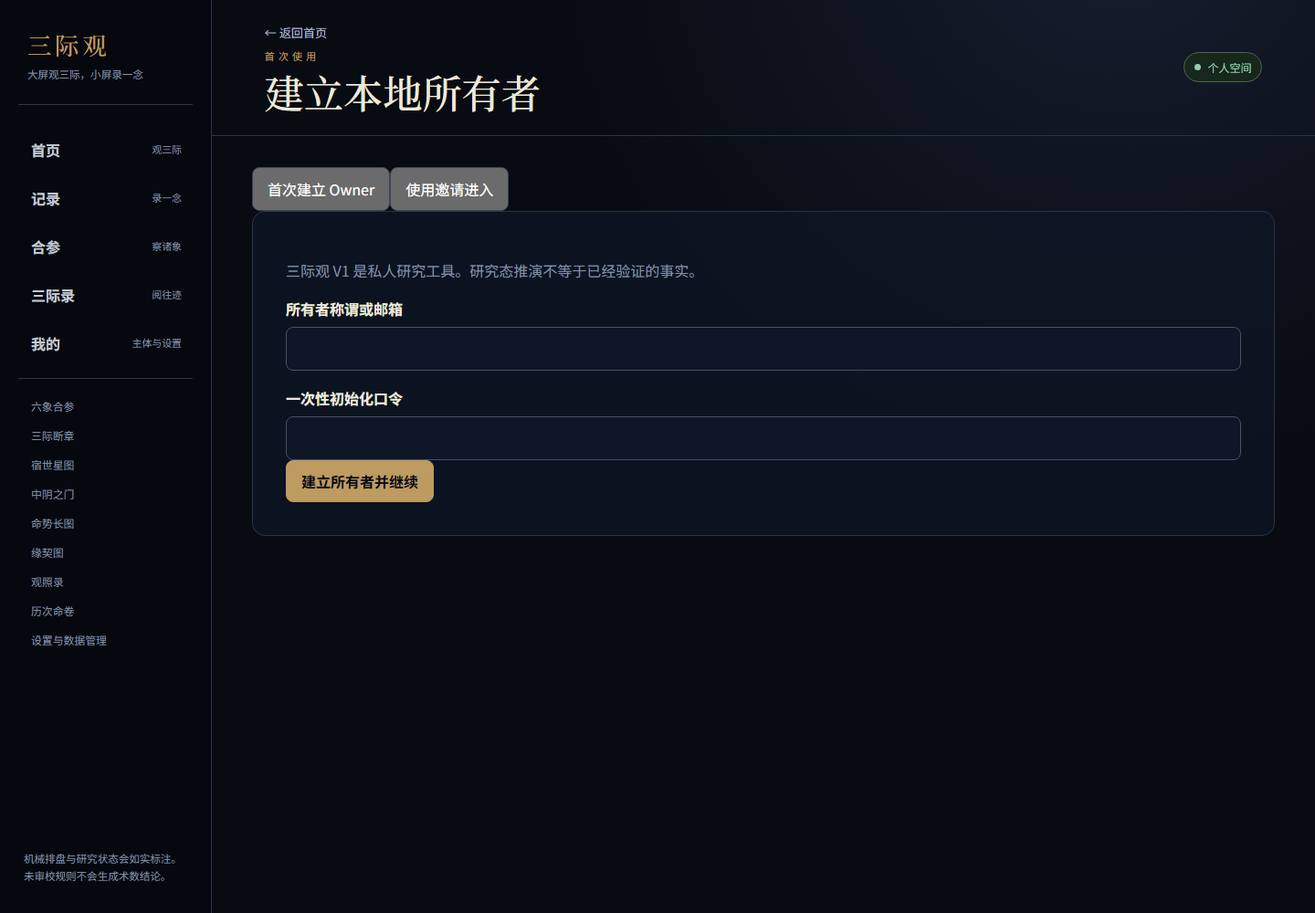
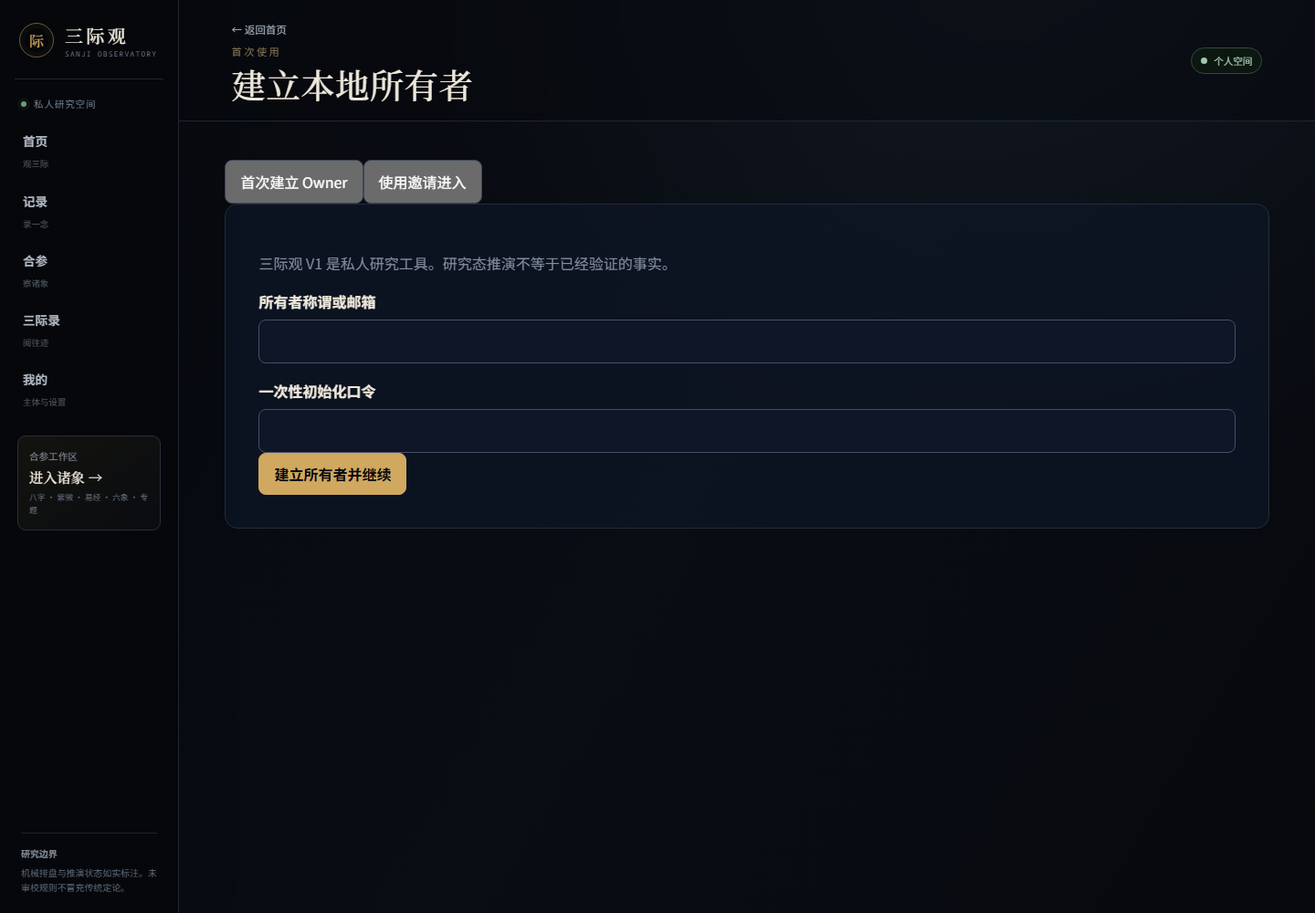
feat(web): establish editorial observatory experience

diff --git a/apps/web/app/styles.css b/apps/web/app/styles.css
@@ -156,3 +156,54 @@ table { width: 100%; border-collapse: collapse; }th,td { text-align: left; paddi
 @media(max-width:767px){body{font-size:16px}.product-content{padding-bottom:88px}.product-mobile-nav a{min-height:58px}.metric-pair,.evidence-columns,.liuxiang-result-grid{grid-template-columns:1fr}.journey-progress ol{grid-template-columns:repeat(2,1fr)}.verdict-banner{padding:24px 20px}.report-reader{padding:22px 18px}.report-reader>.report-title{font-size:2.35rem}.technical-details pre{font-size:.7rem}.product-topbar{align-items:flex-start}.status-dot{white-space:normal}.form-actions{position:sticky;bottom:66px;z-index:5;padding:10px;background:rgba(8,11,18,.95);border-top:1px solid var(--line)}}
 @media print{.product-sidebar,.product-mobile-nav,.product-topbar,.result-actions,.form-actions,.technical-details{display:none!important}.product-shell{display:block;background:#fff;color:#111}.product-content{width:100%;padding:0}.report-reader,.verdict-banner{border:0;box-shadow:none;background:#fff;color:#111}.report-reader p{color:#222}.report-chapter{break-inside:avoid}}
 @media(prefers-reduced-motion:reduce){html{scroll-behavior:auto}.product-state--loading>span{animation:none}}
+
+/* V1.1 墨卷研究院 — editorial product system. */
+:root{--ink:#07090d;--indigo:#121722;--gold:#d0a85f;--cinnabar:#9d4e45;--lotus:#eee8dc;--bluegray:#84909e;--line:#252d39;--surface-1:#0b0f16;--surface-2:#101621;--surface-soft:rgba(17,23,34,.72);--text-muted:#a3adb9;--radius-sm:6px;--radius-md:10px;--radius-lg:16px;--shadow-soft:0 28px 80px rgba(0,0,0,.24)}
+body{background:#07090d;color:var(--lotus)}
+.product-shell{grid-template-columns:196px minmax(0,1fr);background:radial-gradient(ellipse at 78% -14%,rgba(43,53,72,.3),transparent 43%),linear-gradient(120deg,#07090d,#090d14 52%,#07090d);isolation:isolate}
+.product-shell::before{content:"";position:fixed;inset:0;z-index:-1;pointer-events:none;opacity:.18;background-image:linear-gradient(rgba(255,255,255,.012) 1px,transparent 1px);background-size:100% 8px}
+.product-sidebar{padding:24px 16px 20px;background:rgba(5,7,11,.94);border-color:#202630;box-shadow:18px 0 50px rgba(0,0,0,.1)}
+.product-brand{display:flex;align-items:center;gap:12px;padding:0 5px 22px;border-color:#202630}
+.product-brand>i{width:38px;height:38px;display:grid;place-items:center;border:1px solid color-mix(in srgb,var(--gold) 52%,transparent);border-radius:50%;color:var(--gold);font:500 1rem "Noto Serif SC",serif;font-style:normal;box-shadow:inset 0 0 0 5px rgba(208,168,95,.035)}
+.product-brand>span{display:grid;gap:2px}.product-brand strong{font-size:1.24rem;letter-spacing:.18em;color:var(--lotus)}.product-brand small{font:500 .49rem/1.2 "Noto Sans Mono",monospace;letter-spacing:.16em;color:#687485}
+.product-space-label{display:flex;align-items:center;gap:8px;margin:19px 7px 8px;color:#737f8f;font-size:.66rem;letter-spacing:.08em}.product-space-label span{width:6px;height:6px;border-radius:50%;background:#6e9b79;box-shadow:0 0 0 4px rgba(110,155,121,.08)}
+.product-sidebar nav{gap:2px;margin-top:5px}.product-sidebar nav a{grid-template-columns:1fr;padding:10px 9px;border:0;border-radius:6px;color:#aeb6c1;transition:background .18s ease,color .18s ease}.product-sidebar nav a b{font-size:.85rem}.product-sidebar nav a small{font-size:.59rem;opacity:.58}.product-sidebar nav a:hover,.product-sidebar nav a[aria-current=page]{background:#121821;color:#f3ede2}.product-sidebar nav a[aria-current=page]{box-shadow:inset 2px 0 var(--gold)}
+.sidebar-consult-entry{display:grid;gap:5px;margin:19px 3px;padding:14px 12px;border:1px solid #292f39;border-radius:9px;text-decoration:none;background:linear-gradient(145deg,rgba(208,168,95,.07),rgba(255,255,255,.018))}.sidebar-consult-entry span{font-size:.66rem;color:#7f8995}.sidebar-consult-entry b{font-family:"Noto Serif SC",serif;font-size:.95rem;font-weight:500}.sidebar-consult-entry small{font-size:.55rem;color:#65717f}.sidebar-consult-entry:hover{border-color:#695b42;background:rgba(208,168,95,.09)}
+.product-boundary{display:grid;gap:5px;margin:auto 7px 0;padding-top:14px;border-top:1px solid #202630;font-size:.62rem;line-height:1.6}.product-boundary b{color:#858f9c}.product-boundary span{color:#5f6b79}
+.product-topbar{min-height:88px;padding:18px clamp(24px,4vw,64px);border-color:#202630;background:rgba(7,9,13,.48);backdrop-filter:blur(15px)}.product-topbar h1{font-size:clamp(1.65rem,2.6vw,2.35rem);font-weight:500;letter-spacing:.01em}.product-topbar .eyebrow{letter-spacing:.22em;color:#897858}.breadcrumb-back{font-size:.72rem}.status-dot{padding:6px 10px;border-color:#39473c;background:#0d1711;font-size:.66rem}
+.product-content{width:min(1320px,calc(100% - clamp(36px,7vw,110px)));padding:42px 0 110px}
+.product-hero{grid-template-columns:minmax(0,1.55fr) minmax(280px,.62fr);gap:44px;align-items:center;margin:12px 0 72px;padding:30px 0 52px;border-bottom:1px solid #252c35}.product-hero>div:first-child{position:relative;padding:20px 0;border:0;border-radius:0;background:none}.product-hero>div:first-child::before{content:"三际";position:absolute;right:2%;top:-30%;color:rgba(208,168,95,.035);font:500 clamp(9rem,18vw,17rem)/1 "Noto Serif SC",serif;pointer-events:none}.product-hero h2{max-width:850px;margin:.2em 0 .45em;font-size:clamp(2.8rem,5.2vw,5.5rem);line-height:1.13;letter-spacing:-.035em}.product-hero p{max-width:62ch;color:#a9b1bb}.product-kicker{font:600 .66rem/1.5 "Noto Sans Mono",monospace;letter-spacing:.3em!important}.home-axis{display:flex;align-items:center;max-width:570px;margin-top:34px;color:#788390;font-size:.67rem}.home-axis span{display:grid;grid-template-columns:auto 1fr;gap:7px;align-items:center;white-space:nowrap}.home-axis span b{width:26px;height:26px;display:grid;place-items:center;border:1px solid #4b4437;border-radius:50%;color:var(--gold);font-family:"Noto Serif SC",serif}.home-axis i{flex:1;border-top:1px solid #303641;margin:0 10px}
+.product-hero>.product-state{align-self:center;margin:0;padding:22px 0;border-width:0 0 0 1px;border-radius:0;background:none;box-shadow:none}.product-hero>.product-state>span{margin-left:22px}.home-actions-section{margin-bottom:76px}.product-section-head{align-items:start}.product-section-head .eyebrow{font-size:.61rem;letter-spacing:.25em}.product-section-head h2{font-size:clamp(1.6rem,2.5vw,2.25rem)}
+.action-grid{grid-template-columns:repeat(12,1fr);gap:12px;margin-bottom:0}.action-card{grid-column:span 3;min-height:190px;padding:22px 20px;border:1px solid #242b35;border-radius:8px;background:rgba(14,19,28,.55);box-shadow:none;transition:transform .2s ease,border-color .2s ease,background .2s ease}.action-card:first-child{grid-column:span 6}.action-card:hover{transform:translateY(-3px);border-color:#514936;background:#111722}.action-card h3{font-size:1.35rem}.action-card--primary{border-color:#554a36;background:linear-gradient(135deg,rgba(208,168,95,.12),rgba(15,21,31,.72))}
+.product-dashboard{grid-template-columns:1fr;border-top:1px solid #252c35}.product-dashboard>.product-section-head{padding-top:40px}.product-dashboard article{display:grid;grid-template-columns:130px 1fr auto;gap:28px;align-items:center;padding:20px 4px;border:0;border-bottom:1px solid #252c35;border-radius:0;background:none}.product-dashboard article h3,.product-dashboard article p{margin:.25rem 0}.product-dashboard article a{text-decoration:none}.product-dashboard article a::after{content:" →"}
+
+.consult-masthead{display:grid;grid-template-columns:minmax(0,1fr) 250px;gap:70px;align-items:center;padding:38px 0 78px;border-bottom:1px solid #252c35}.consult-masthead h2{max-width:850px;margin:.22em 0;font-size:clamp(2.7rem,5vw,5.1rem);font-weight:500;line-height:1.16;letter-spacing:-.025em}.consult-masthead>div>p:last-child{max-width:62ch;color:#9fa9b5;line-height:1.85}.consult-seal{justify-self:end;width:210px;height:210px;display:grid;place-items:center;align-content:center;border:1px solid #50452f;border-radius:50%;background:radial-gradient(circle,rgba(208,168,95,.08),transparent 64%);box-shadow:inset 0 0 0 18px #080b10,inset 0 0 0 19px #25251f}.consult-seal span{font-size:.72rem;letter-spacing:.35em;color:#8f7e5d}.consult-seal b{font:500 2.3rem "Noto Serif SC",serif;letter-spacing:.2em;color:var(--gold)}
+.consult-section{padding:58px 0 18px}.consult-section>header{display:grid;grid-template-columns:46px 1fr minmax(240px,420px);gap:18px;align-items:end;margin-bottom:24px}.consult-section>header>span{color:#746446;font:600 .66rem "Noto Sans Mono",monospace}.consult-section>header h2{margin:.18em 0;font-size:2rem}.consult-section>header>p{color:#7f8996;line-height:1.7}.tool-grid{gap:1px;background:#252c35;border:1px solid #252c35}.tool-grid article{display:flex;flex-direction:column;min-height:330px;padding:25px 23px;border:0;border-radius:0;background:#0d121a;overflow:hidden;transition:background .18s ease}.tool-grid article:hover{background:#111823}.tool-grid--mechanical{grid-template-columns:repeat(3,1fr)}.tool-grid--synthesis{grid-template-columns:repeat(4,1fr)}.tool-grid--synthesis .tool-featured{grid-column:span 2;background:linear-gradient(145deg,rgba(208,168,95,.09),#0d121a)}.tool-glyph{position:absolute;right:18px;top:22px;color:rgba(208,168,95,.08);font:500 6.4rem/1 "Noto Serif SC",serif}.tool-grid .tool-head{position:relative;z-index:1}.tool-grid article h2{position:relative;margin:36px 0 8px;font-size:1.55rem}.tool-grid article p{position:relative;max-width:44ch}.tool-grid article dl{margin-top:auto}.tool-grid article>a{display:flex;justify-content:space-between;padding-top:16px;border-top:1px solid #29313c;text-decoration:none;color:var(--gold);font-weight:650}.tool-grid article>a:hover{color:#f0cf8e}.tool-grid .status-ok{border:0;background:#172219}
+
+.liuxiang-preflight{display:grid;grid-template-columns:minmax(360px,.85fr) minmax(0,1.15fr);gap:30px;align-items:start}.liuxiang-orbit{margin:0;position:relative}.liuxiang-orbit__field{position:relative;aspect-ratio:1;max-width:580px;margin:auto;border:1px solid #2b323c;border-radius:50%;background:radial-gradient(circle,rgba(208,168,95,.08),transparent 26%),radial-gradient(circle,transparent 52%,rgba(255,255,255,.018) 53%,transparent 54%)}.liuxiang-orbit__field::before,.liuxiang-orbit__field::after{content:"";position:absolute;inset:11%;border:1px solid rgba(208,168,95,.14);border-radius:50%}.liuxiang-orbit__field::after{inset:29%;border-color:rgba(208,168,95,.25)}.liuxiang-orbit__rings{position:absolute;inset:0;border-radius:50%;background:conic-gradient(from -30deg,rgba(208,168,95,.12),transparent 15%,rgba(118,137,160,.08) 17%,transparent 32%,rgba(208,168,95,.1) 34%,transparent 49%,rgba(133,103,132,.1) 51%,transparent 66%,rgba(208,168,95,.1) 68%,transparent 83%,rgba(100,139,115,.09) 85%,transparent)}.liuxiang-orbit__core{position:absolute;inset:36%;z-index:2;display:grid;place-items:center;align-content:center;border:1px solid #6c5a39;border-radius:50%;background:#0c1118;box-shadow:0 0 60px rgba(208,168,95,.09)}.liuxiang-orbit__core small{font-size:.54rem;letter-spacing:.2em;color:#817353}.liuxiang-orbit__core b{font:500 clamp(1.5rem,3vw,2.7rem) "Noto Serif SC",serif;color:var(--gold)}.liuxiang-orbit__core span{font-size:.58rem;color:#727d89}.liuxiang-node{position:absolute;z-index:3;display:grid;place-items:center;align-content:center;width:74px;height:74px;border:1px solid #3a424d;border-radius:50%;background:#0b1017;box-shadow:0 12px 30px rgba(0,0,0,.25)}.liuxiang-node>b{font:500 1.25rem "Noto Serif SC",serif;color:#e7dfd0}.liuxiang-node>span{font-size:.58rem;color:#919ba6}.liuxiang-node>small{font:.52rem "Noto Sans Mono",monospace;color:var(--gold)}.liuxiang-node--1{left:50%;top:1%;transform:translateX(-50%)}.liuxiang-node--2{right:4%;top:25%}.liuxiang-node--3{right:8%;bottom:18%}.liuxiang-node--4{left:50%;bottom:1%;transform:translateX(-50%)}.liuxiang-node--5{left:8%;bottom:18%}.liuxiang-node--6{left:4%;top:25%}.liuxiang-orbit figcaption{max-width:52ch;margin:18px auto 0;color:#7e8996;font-size:.72rem;line-height:1.7;text-align:center}.liuxiang-preflight .readiness-list{padding:0;border:0;border-radius:0;background:none}.liuxiang-result__lead{display:grid;grid-template-columns:minmax(400px,.9fr) minmax(0,1.1fr);gap:36px;align-items:center;margin-bottom:54px}.liuxiang-result__lead .verdict-banner{border-radius:0;border-width:0 0 0 2px;background:none;box-shadow:none}.liuxiang-result-grid{grid-template-columns:1fr;gap:0;border-top:1px solid #29313c}.liuxiang-card{position:relative;display:grid;grid-template-columns:54px minmax(180px,.7fr) minmax(0,1.3fr);gap:18px;align-items:center;padding:19px 8px;border:0;border-bottom:1px solid #29313c;border-radius:0;background:none}.liuxiang-card[data-primary=true]{border-color:#514631;background:linear-gradient(90deg,rgba(208,168,95,.075),transparent)}.liuxiang-rank{color:#716143;font:600 .65rem "Noto Sans Mono",monospace}.liuxiang-card header{align-items:center}.liuxiang-card header small{color:#75808c}.liuxiang-card header h3{margin:.2rem 0;font-size:1.45rem}.liuxiang-card header>b{font-size:.72rem;color:#aeb8c3}.liuxiang-card__scores{display:grid;grid-template-columns:repeat(4,1fr);gap:10px}.liuxiang-card__scores span{display:grid;gap:5px;color:#707c89;font-size:.65rem}.liuxiang-card__scores b{font:600 1rem "Noto Sans Mono",monospace;color:#d8d1c6}
+
+.report-reader{position:relative;max-width:1080px;margin:32px auto 70px;padding:clamp(30px,5vw,72px);border:1px solid #30343a;border-radius:2px;background:linear-gradient(180deg,#12161d,#0d1117);box-shadow:0 32px 90px rgba(0,0,0,.34)}.report-reader::before{content:"";position:absolute;inset:8px;border:1px solid rgba(208,168,95,.1);pointer-events:none}.report-folio{position:relative;z-index:1;display:flex;align-items:center;gap:14px;padding-bottom:18px;border-bottom:1px solid #35383d;color:#776a50;font-size:.65rem;letter-spacing:.15em}.report-folio b{margin-left:auto;font-family:"Noto Serif SC",serif;color:#b99a61}.report-folio small{color:#68727e}.report-reader>.verdict-banner{position:relative;margin:36px 0 50px;padding:12px 0 12px 28px;border-width:0 0 0 2px;border-radius:0;background:none;box-shadow:none}.report-reader>.verdict-banner h2{font-size:clamp(2.7rem,5vw,5rem);letter-spacing:-.035em}.report-masthead{display:grid;grid-template-columns:1fr auto;gap:30px;align-items:end;padding-bottom:38px;border-bottom:1px solid #333841}.report-masthead .report-title{margin:.15em 0;font-size:clamp(2.6rem,5vw,5rem);font-weight:500}.report-masthead dl{display:grid;grid-template-columns:repeat(2,1fr);gap:28px}.report-masthead dd{max-width:180px}.report-reading-layout{display:grid;grid-template-columns:150px minmax(0,1fr);gap:48px;padding-top:38px}.report-index{position:sticky;top:116px;align-self:start;display:grid;gap:3px}.report-index b{padding:0 0 12px;color:#756849;font-size:.64rem;letter-spacing:.15em}.report-index a{padding:7px 0;color:#6f7a87;font-size:.67rem;text-decoration:none}.report-index a:hover{color:var(--gold)}.report-chapter{display:grid;grid-template-columns:42px 1fr;gap:20px;padding:26px 0;border-top:1px solid #303741}.report-chapter>span{color:#756645;font:600 .62rem "Noto Sans Mono",monospace}.report-chapter h3{margin:0 0 12px;font-size:1.22rem;color:#c4a66d}.report-chapter p{font-size:1.02rem;line-height:2.05}.report-chapter--image p{font-family:"Noto Serif SC",serif;font-size:1.2rem;color:#ddd5c7}.report-footer{display:flex;justify-content:space-between;gap:28px;align-items:center;margin-top:28px;padding-top:26px;border-top:1px solid #353a42}.report-footer .report-provenance{margin:0;padding:0;border:0;max-width:65ch}.report-footer .product-button{white-space:nowrap}
+
+@media(max-width:1000px){.product-shell{grid-template-columns:176px 1fr}.product-sidebar{padding-inline:12px}.consult-masthead{grid-template-columns:1fr 180px;gap:30px}.consult-seal{width:160px;height:160px}.tool-grid--synthesis{grid-template-columns:repeat(2,1fr)}.liuxiang-preflight,.liuxiang-result__lead{grid-template-columns:1fr}.liuxiang-orbit__field{max-width:520px}.report-reading-layout{grid-template-columns:110px 1fr;gap:28px}}
+@media(max-width:767px){.product-shell{padding-bottom:76px}.product-topbar{min-height:76px;padding:12px 16px;background:rgba(7,9,13,.9)}.product-topbar h1{font-size:1.35rem}.product-content{width:calc(100% - 28px);padding:22px 0 100px}.product-mobile-nav{padding:7px 5px calc(6px + env(safe-area-inset-bottom));background:rgba(7,10,15,.96);backdrop-filter:blur(18px);border-color:#2a3038}.product-mobile-nav a{min-height:48px;display:flex;flex-direction:column;gap:3px;padding:4px 0;color:#737e8b;font-size:inherit}.product-mobile-nav a span{font:500 .9rem "Noto Serif SC",serif}.product-mobile-nav a b{font-size:.58rem;font-weight:500}.product-mobile-nav a[aria-current=page]{border:0;color:var(--gold)}.product-hero{display:block;margin:0 0 44px;padding:12px 0 36px}.product-hero h2{font-size:2.65rem}.product-hero>div:first-child::before{right:-6%;top:-12%;font-size:9rem}.home-axis{margin-top:25px}.home-axis span{grid-template-columns:1fr;text-align:center}.home-axis span b{margin:auto}.home-axis span{font-size:.56rem}.product-hero>.product-state{margin-top:28px;padding:18px;border-width:1px;background:rgba(16,22,31,.5)}.action-grid{grid-template-columns:1fr}.action-card,.action-card:first-child{grid-column:auto;min-height:150px}.product-dashboard article{grid-template-columns:1fr;gap:4px;padding:18px 2px}.consult-masthead{display:block;padding:12px 0 44px}.consult-masthead h2{font-size:2.65rem}.consult-seal{display:none}.consult-section{padding-top:42px}.consult-section>header{grid-template-columns:32px 1fr}.consult-section>header>p{grid-column:2}.tool-grid,.tool-grid--mechanical,.tool-grid--synthesis{grid-template-columns:1fr}.tool-grid--synthesis .tool-featured{grid-column:auto}.tool-grid article{min-height:285px}.liuxiang-preflight{grid-template-columns:1fr}.liuxiang-orbit__field{max-width:360px}.liuxiang-node{width:58px;height:58px}.liuxiang-node>b{font-size:1rem}.liuxiang-node>span{font-size:.5rem}.liuxiang-result__lead{grid-template-columns:1fr;gap:18px}.liuxiang-card{grid-template-columns:34px 1fr;padding:16px 4px}.liuxiang-card__scores{grid-column:2;grid-template-columns:repeat(4,1fr)}.liuxiang-card>p{grid-column:2}.report-reader{margin:18px -2px 48px;padding:30px 20px}.report-reader::before{inset:5px}.report-reader>.verdict-banner{padding-left:18px}.report-reader>.verdict-banner h2{font-size:2.7rem}.report-masthead{grid-template-columns:1fr}.report-masthead .report-title{font-size:2.8rem}.report-masthead dl{gap:14px}.report-reading-layout{display:block}.report-index{position:static;display:flex;gap:12px;overflow-x:auto;padding:18px 0 10px}.report-index b{display:none}.report-index a{white-space:nowrap}.report-chapter{grid-template-columns:30px 1fr;gap:12px}.report-footer{display:block}.report-footer .product-button{width:100%;margin-top:14px}}
+
+/* Tablet is a reading surface, not a compressed desktop. */
+@media (min-width:768px) and (max-width:900px){
+  .product-shell{display:block;padding-bottom:78px}
+  .product-sidebar{display:none}
+  .product-topbar{min-height:80px;padding:13px 24px;background:rgba(7,9,13,.92)}
+  .product-content{width:calc(100% - 52px);padding:30px 0 90px}
+  .product-mobile-nav{position:fixed;left:0;right:0;bottom:0;z-index:30;display:grid;grid-template-columns:repeat(5,1fr);padding:7px 24px calc(7px + env(safe-area-inset-bottom));background:rgba(7,10,15,.97);backdrop-filter:blur(18px);border-top:1px solid #2a3038}
+  .product-mobile-nav a{min-height:50px;display:flex;flex-direction:column;align-items:center;justify-content:center;gap:2px;text-decoration:none;color:#818b98}
+  .product-mobile-nav a span{font:500 .92rem "Noto Serif SC",serif}
+  .product-mobile-nav a b{font-size:.6rem;font-weight:500}
+  .product-mobile-nav a[aria-current=page]{color:var(--gold)}
+  .product-hero{grid-template-columns:1.3fr .7fr;gap:32px}
+  .product-hero h2{font-size:clamp(3rem,8vw,4.5rem)}
+  .action-grid{grid-template-columns:repeat(2,1fr)}
+  .action-card,.action-card:first-child{grid-column:auto;min-height:175px}
+  .consult-masthead{grid-template-columns:1fr 150px}
+  .consult-seal{width:140px;height:140px}
+  .tool-grid--mechanical,.tool-grid--synthesis{grid-template-columns:repeat(2,1fr)}
+  .tool-grid--synthesis .tool-featured{grid-column:span 2}
+}

diff --git a/apps/web/components/ConsultCenter.tsx b/apps/web/components/ConsultCenter.tsx
@@ -4,22 +4,25 @@ import Link from "next/link";
 import ProductShell from "./ProductShell";
 
 const TOOLS = [
-  { id:"yijing", title:"易经三钱", kind:"机械排盘", status:"可用", needs:"一个正式占问、六次实物三钱结果", description:"按已冻结的币面映射形成本卦、变卦与动爻，不生成卦义评分。", href:"/consult/yijing" },
-  { id:"bazi", title:"八字", kind:"机械排盘", status:"研究可用", needs:"出生日期、地点、历史时区；时刻可标记未知", description:"展示四柱候选、Profile 与边界敏感，不判断旺衰、喜忌或大运。", href:"/consult/bazi" },
-  { id:"ziwei", title:"紫微", kind:"机械结构", status:"研究可用", needs:"经确认的出生资料与已批准方法 Profile", description:"展示命宫、身宫与已实现机械结构，不补充未经审校的星曜断语。", href:"/consult/ziwei" },
-  { id:"liuxiang", title:"六象合参", kind:"真实证据研究", status:"研究可用", needs:"多类授权记录；资料不足也可以如实起卷", description:"以命、业、愿、梦、缘、世六类证契并观；传统解释性映射仍未启用，也不会展示合成测试候选。", href:"/consult/liuxiang" },
-  { id:"sushe", title:"宿世星图", kind:"原创专题研究", status:"研究可用", needs:"已授权的主体记录与结构标签", description:"排列一至三组确定性研究候选；姓名、年代、地点、身份与死因均明确标注为可能，不主张历史事实。", href:"/consult/sushe" },
-  { id:"zhongyin", title:"中阴之门", kind:"原创专题研究", status:"研究可用", needs:"人生过渡记录；离世模式另需明确离世事实", description:"观察旧结构消散与新结构形成之间的过渡；不会预测在世主体的死亡时间、死法或寿命。", href:"/consult/zhongyin" },
-  { id:"yuanqi", title:"缘契图", kind:"原创专题研究", status:"研究可用", needs:"关系事件、承诺与相应同意范围", description:"区分单方观察与双方合参，不输出命定伴侣、必然复合或不可改变的关系结论。", href:"/consult/yuanqi" },
-  { id:"life-trend", title:"命势长图", kind:"原创时序研究", status:"研究可用", needs:"已授权的人生事件、行为、愿向与关系记录", description:"确定性展示往际、当下和规则推演的未来；空白处不插值，K线不是证券价格。", href:"/consult/life-trend" },
+  { id:"yijing", glyph:"易", title:"易经三钱", kind:"机械排盘", status:"可用", needs:"一个正式占问、六次实物三钱结果", description:"按已冻结的币面映射形成本卦、变卦与动爻，不生成卦义评分。", href:"/consult/yijing" },
+  { id:"bazi", glyph:"八", title:"八字", kind:"机械排盘", status:"研究可用", needs:"出生日期、地点、历史时区；时刻可标记未知", description:"展示四柱候选、方法方案与边界敏感，不把机械结构包装成完整论命。", href:"/consult/bazi" },
+  { id:"ziwei", glyph:"紫", title:"紫微", kind:"机械结构", status:"研究可用", needs:"经确认的出生资料与已批准方法方案", description:"展示命宫、身宫与已实现机械结构，不补充未经审校的星曜断语。", href:"/consult/ziwei" },
+  { id:"liuxiang", glyph:"象", title:"六象合参", kind:"真实证据研究", status:"研究可用", needs:"多类授权记录；资料不足也可以如实起卷", description:"以命、业、愿、梦、缘、世六类证契并观；同源去重，保留逆证、冲突与缺失。", href:"/consult/liuxiang" },
+  { id:"sushe", glyph:"宿", title:"宿世星图", kind:"原创专题研究", status:"研究可用", needs:"已授权的主体记录与结构标签", description:"排列确定性研究候选；姓名、年代、地点、身份与死因均明确标注为可能。", href:"/consult/sushe" },
+  { id:"zhongyin", glyph:"门", title:"中阴之门", kind:"原创专题研究", status:"研究可用", needs:"人生过渡记录；离世模式另需明确离世事实", description:"观察旧结构消散与新结构形成之间的过渡，不预测在世主体的死亡。", href:"/consult/zhongyin" },
+  { id:"yuanqi", glyph:"缘", title:"缘契图", kind:"原创专题研究", status:"研究可用", needs:"关系事件、承诺与相应同意范围", description:"区分单方观察与双方合参，不输出命定伴侣或必然复合。", href:"/consult/yuanqi" },
+  { id:"life-trend", glyph:"势", title:"三际断章与命势", kind:"原创时序研究", status:"研究可用", needs:"已授权的人生事件、行为、愿向与关系记录", description:"将往际、当下和未来推演分区呈现；空白处不插值，命势长图不是证券价格。", href:"/consult/life-trend" },
 ] as const;
 
 export default function ConsultCenter(){
   return <ProductShell title="选择一次合参" eyebrow="合参 · 察诸象">
-    <header className="section-intro"><div><h2>先看当前能力，再决定是否开始</h2><p>每项工具都会标明资料要求、机械或研究性质，以及尚未开放的结论范围。</p></div></header>
-    <section className="tool-grid">
-      {TOOLS.map((tool)=><article key={tool.id}><div className="tool-head"><span>{tool.kind}</span><b className="status-ok">{tool.status}</b></div><h2>{tool.title}</h2><p>{tool.description}</p><dl><dt>需要资料</dt><dd>{tool.needs}</dd><dt>最近一次</dt><dd>从服务端历史读取</dd></dl><Link className="product-button" href={tool.href}>{tool.id==="liuxiang"?"查看资料并执行":tool.status==="可用"?"开始":"查看机械范围"}</Link></article>)}
-    </section>
+    <header className="consult-masthead"><div><p className="product-kicker">OBSERVATION WORKSPACE</p><h2>诸象不是八个孤立工具，<br/>而是同一卷资料的不同观察面。</h2><p>机械排盘负责形成结构，证据合参负责保留支持与逆证。每项能力都明确标注资料要求和研究边界。</p></div><div className="consult-seal" aria-hidden="true"><span>三际</span><b>合参</b></div></header>
+    <section className="consult-section" aria-labelledby="mechanical-title"><header><span>01</span><div><p className="eyebrow">机械结构</p><h2 id="mechanical-title">先立其形</h2></div><p>可复现的盘面与结构，不自动等于人生解释。</p></header><div className="tool-grid tool-grid--mechanical">
+      {TOOLS.slice(0,3).map((tool)=><article key={tool.id}><span className="tool-glyph" aria-hidden="true">{tool.glyph}</span><div className="tool-head"><span>{tool.kind}</span><b className="status-ok">{tool.status}</b></div><h2>{tool.title}</h2><p>{tool.description}</p><dl><dt>所需资料</dt><dd>{tool.needs}</dd></dl><Link href={tool.href} aria-label={tool.id === "yijing" ? "开始" : `进入${tool.title}`}>进入观察 <span aria-hidden="true">→</span></Link></article>)}
+    </div></section>
+    <section className="consult-section" aria-labelledby="synthesis-title"><header><span>02</span><div><p className="eyebrow">证据与专题</p><h2 id="synthesis-title">再察其间</h2></div><p>从已授权记录中取证，资料不足时允许不成断。</p></header><div className="tool-grid tool-grid--synthesis">
+      {TOOLS.slice(3).map((tool,index)=><article className={index===0||tool.id==="life-trend"?"tool-featured":""} key={tool.id}><span className="tool-glyph" aria-hidden="true">{tool.glyph}</span><div className="tool-head"><span>{tool.kind}</span><b className="status-ok">{tool.status}</b></div><h2>{tool.title}</h2><p>{tool.description}</p><dl><dt>所需资料</dt><dd>{tool.needs}</dd></dl><Link href={tool.href}>{tool.id==="liuxiang"?"查看资料并合参":"进入专题"} <span aria-hidden="true">→</span></Link></article>)}
+    </div></section>
     <p className="research-disclaimer">引擎、规则版本与校验摘要不会占据普通阅读区；需要核验时，可在结果页的“方法与版本”中展开。</p>
   </ProductShell>;
 }

diff --git a/apps/web/components/LiuxiangReadiness.tsx b/apps/web/components/LiuxiangReadiness.tsx
@@ -11,6 +11,11 @@ type Run={id:string;archive_id:string;status:string;strength_bp:number;confidenc
 const labels:Record<string,string>={lx_ming:"命象",lx_ye:"业象",lx_yuan:"愿象",lx_meng:"梦象",lx_yuan_relation:"缘象",lx_shi:"世象"};
 const missingLabels:Record<string,string>={minimum_independent_records:"独立记录数量不足",minimum_time_span:"记录时间跨度不足"};
 
+function LiuxiangOrbit({counts,candidates}:{counts:Record<string,number>;candidates?:Candidate[]}){
+ const dimensions=Object.entries(labels);
+ return <figure className="liuxiang-orbit"><div className="liuxiang-orbit__field" aria-hidden="true"><div className="liuxiang-orbit__rings"/><div className="liuxiang-orbit__core"><small>三际枢</small><b>六象</b><span>证契合参</span></div>{dimensions.map(([id,label],index)=>{const candidate=candidates?.find(v=>v.dimension_id===id);return <div className={`liuxiang-node liuxiang-node--${index+1}`} key={id}><b>{label.slice(0,1)}</b><span>{label}</span><small>{candidate?`${candidate.strength_bp/100}%`:`${counts[id]||0} 条`}</small></div>})}</div><figcaption>六象共享一条可追溯证据链；重复来源不会被伪装成多份独立证契。</figcaption></figure>
+}
+
 export default function LiuxiangReadiness(){
  const [profileId,setProfileId]=useState("");const [items,setItems]=useState<EvidenceItem[]>([]);
  const [excluded,setExcluded]=useState<Set<string>>(new Set());const [run,setRun]=useState<Run>();
@@ -23,17 +28,16 @@ export default function LiuxiangReadiness(){
  return <ProductShell title="六象合参" eyebrow="合参 · 六象" status="research only">
   {!profileId&&<PageState kind="insufficient" title="先建立或选择主体"><p>六象研究只读取你授权主体的资料。</p><Link className="product-button" href="/onboarding">建立主体</Link></PageState>}
   <aside className="privacy-note"><b>研究态声明</b><p>六象是三际观原创研究体系，仍为 UNCONFIRMED 且不可生产激活。易经、八字、紫微到六象的真实映射规则尚未通过审校；出生与机械排盘只影响资料覆盖和可信度，未经审校的干支、星曜、卦象解释继续禁用。普通页面不显示任何合成测试结果。</p></aside>
-  {profileId&&<><section className="readiness-list"><div className="product-section-head"><div><h2>本次资料覆盖</h2><p>取消勾选可排除记录；梦境正文、关系正文与出生全文不会进入 Trace。</p></div><span>{items.filter(v=>!v.withdrawn).length} 条可选引用</span></div>
+  {profileId&&<><section className="liuxiang-preflight"><LiuxiangOrbit counts={counts}/><div className="readiness-list"><div className="product-section-head"><div><p className="eyebrow">本次资料覆盖</p><h2>六类资料是否齐备</h2><p>取消勾选可排除记录；梦境正文、关系正文与出生全文不会进入追溯链。</p></div><span>{items.filter(v=>!v.withdrawn).length} 条可选引用</span></div>
    {Object.entries(labels).map(([id,label],index)=><article key={id}><span aria-hidden="true">{String(index+1).padStart(2,"0")}</span><div><h3>{label}</h3><p>{counts[id]} 条记录；当前只使用明确事实与用户确认标签。</p></div><b>{counts[id]?"已有资料":"尚缺资料"}</b></article>)}
-  </section>
+  </div></section>
   <section className="product-form" aria-label="选择参与证据"><h2>选择本次参与的记录</h2>{items.map(item=><label className="check-field" key={`${item.record_table}:${item.record_id}`}><input type="checkbox" checked={!excluded.has(item.record_id)&&!item.withdrawn} disabled={item.withdrawn} onChange={e=>setExcluded(current=>{const next=new Set(current);e.target.checked?next.delete(item.record_id):next.add(item.record_id);return next})}/><span><b>{labels[item.dimension_id]} · {item.fact_kind==="evidence"?"明确记录":"资料覆盖"}</b><small>{item.date_precision} · {item.state}{item.withdrawn?" · 已撤销":""}</small></span></label>)}
    <button className="product-button" aria-disabled={state==="running"} aria-busy={state==="running"} onClick={executeRun}>{state==="running"?"正在取证与合参…":"起一卷六象合参"}</button>
   </section></>}
   {error&&<PageState kind="error" title="请求未完成"><p>{error}。资料仍保留在数据库中，可以重试。</p></PageState>}
-  {run&&<section aria-label="六象合参结果">
-   <VerdictBanner status={run.status}><p>{run.status==="insufficient"?"六象结构已建立，但独立证契尚不足。补齐下列缺口后可重新起卷。":run.status==="contested"?"两象各有证契，主次尚未定；请同时查看各自逆证与缺口。":"主象已经显出，但研究规则仍未经审校，不能作为传统共识。"}</p></VerdictBanner>
-   <MetricPair strengthBp={run.strength_bp} confidenceBp={run.confidence_bp}/>
-   <div className="liuxiang-result-grid">{run.candidates.map((item,index)=><article className="liuxiang-card" data-primary={index===0} key={item.dimension_id}><header><h3>{labels[item.dimension_id]}</h3><span>{index===0?"主象候选":`第 ${index+1} 象`}</span></header><p><b>{productStatus(item.status)}</b></p><MetricPair strengthBp={item.strength_bp} confidenceBp={item.confidence_bp}/><p>证契 {item.support_count} 组 · 逆证 {item.counterevidence_count} 组</p>{item.missing_facts.length>0&&<p><b>尚缺：</b>{item.missing_facts.map(v=>missingLabels[v]||"未解释的资料缺口").join("、")}</p>}</article>)}</div>
+  {run&&<section className="liuxiang-result" aria-label="六象合参结果">
+   <div className="liuxiang-result__lead"><LiuxiangOrbit counts={counts} candidates={run.candidates}/><div><VerdictBanner status={run.status}><p>{run.status==="insufficient"?"六象结构已建立，但独立证契尚不足。补齐下列缺口后可重新起卷。":run.status==="contested"?"两象各有证契，主次尚未定；请同时查看各自逆证与缺口。":"主象已经显出，但研究规则仍未经审校，不能作为传统共识。"}</p></VerdictBanner><MetricPair strengthBp={run.strength_bp} confidenceBp={run.confidence_bp}/></div></div>
+   <div className="liuxiang-result-grid">{run.candidates.map((item,index)=><article className="liuxiang-card" data-primary={index===0} key={item.dimension_id}><span className="liuxiang-rank">{String(item.rank).padStart(2,"0")}</span><header><div><small>{index===0?"主象候选":`第 ${index+1} 象`}</small><h3>{labels[item.dimension_id]}</h3></div><b>{productStatus(item.status)}</b></header><div className="liuxiang-card__scores"><span>象势 <b>{item.strength_bp/100}%</b></span><span>完备度 <b>{item.confidence_bp/100}%</b></span><span>证契 <b>{item.support_count}</b></span><span>逆证 <b>{item.counterevidence_count}</b></span></div>{item.missing_facts.length>0&&<p><b>尚缺：</b>{item.missing_facts.map(v=>missingLabels[v]||"未解释的资料缺口").join("、")}</p>}</article>)}</div>
    <p><Link className="product-button" href={`/chronicle/${run.archive_id}`}>查看已保存的三际录</Link></p>
    <TechnicalDetails><dl className="technical-grid"><div><dt>Output Hash</dt><dd><code>{run.output_hash}</code></dd></div><div><dt>Trace Hash</dt><dd><code>{run.trace_hash}</code></dd></div><div><dt>Execution ID</dt><dd><code>{run.id}</code></dd></div></dl></TechnicalDetails>
   </section>}

diff --git a/apps/web/components/LifeTrendResearch.tsx b/apps/web/components/LifeTrendResearch.tsx
@@ -44,15 +44,17 @@ export default function LifeTrendResearch() {
     {error && <PageState kind="error" title="本次起卷未完成"><p>{error} 已有三际录未被覆盖，可检查连接后重试。</p></PageState>}
     {run && <>
       <article className="report-reader" aria-labelledby="report-title">
+        <div className="report-folio"><span>三际断章</span><b>卷一</b><small>确定性报告</small></div>
         <VerdictBanner status={run.status} title={run.report.chapter}><p>{run.report.plain_interpretation}</p></VerdictBanner>
-        <span className="report-kicker">象名</span><h2 className="report-title" id="report-title">{run.report.symbolic_title}</h2>
-        <section className="report-chapter"><h3>象辞</h3><p>{run.report.image_text}</p></section><section className="report-chapter"><h3>现代释义</h3><p>{run.report.plain_interpretation}</p></section>
-        <section className="report-chapter"><h3>往际</h3><p>{run.report.past}</p></section><section className="report-chapter"><h3>当下</h3><p>{run.report.current}</p></section><section className="report-chapter"><h3>未来</h3><p>{run.report.future}</p></section>
-        <section className="report-chapter"><h3>吉凶主次</h3><p>{run.report.auspice}</p></section>
-        <section className="report-chapter"><h3>应期</h3>{run.timing_windows.length ? run.timing_windows.map((window) => <p key={window.window_id}>{window.start}—{window.end} · {WINDOW_LABELS[window.type] || "变化窗口"} · 证契完备度 {window.confidence_bp/100}%</p>) : <p>证契未足，不强造应期。</p>}</section>
-        <section className="report-chapter"><h3>行动提示</h3><p>{run.report.action_guidance}</p></section>
-        <p className="report-provenance">本页使用三际枢确定性模板成文。成文服务未启用时，结构结果与完整报告仍然可读。</p>
-        <Link className="product-button" href={`/chronicle/${run.archive_id}`}>查看已保存的三际录</Link>
+        <header className="report-masthead"><div><span className="report-kicker">象名</span><h2 className="report-title" id="report-title">{run.report.symbolic_title}</h2></div><dl><div><dt>吉凶主次</dt><dd>{run.report.auspice}</dd></div><div><dt>成文方式</dt><dd>三际枢确定性模板</dd></div></dl></header>
+        <div className="report-reading-layout"><nav className="report-index" aria-label="断章目录"><b>本卷目录</b><a href="#report-image">01 象辞</a><a href="#report-plain">02 释义</a><a href="#report-past">03 往际</a><a href="#report-current">04 当下</a><a href="#report-future">05 未来</a><a href="#report-timing">06 应期</a></nav><div className="report-chapters">
+          <section className="report-chapter report-chapter--image" id="report-image"><span>01</span><div><h3>象辞</h3><p>{run.report.image_text}</p></div></section><section className="report-chapter" id="report-plain"><span>02</span><div><h3>现代释义</h3><p>{run.report.plain_interpretation}</p></div></section>
+          <section className="report-chapter" id="report-past"><span>03</span><div><h3>往际</h3><p>{run.report.past}</p></div></section><section className="report-chapter" id="report-current"><span>04</span><div><h3>当下</h3><p>{run.report.current}</p></div></section><section className="report-chapter" id="report-future"><span>05</span><div><h3>未来</h3><p>{run.report.future}</p></div></section>
+          <section className="report-chapter"><span>吉</span><div><h3>吉凶主次</h3><p>{run.report.auspice}</p></div></section>
+          <section className="report-chapter" id="report-timing"><span>期</span><div><h3>应期</h3>{run.timing_windows.length ? run.timing_windows.map((window) => <p key={window.window_id}>{window.start}—{window.end} · {WINDOW_LABELS[window.type] || "变化窗口"} · 证契完备度 {window.confidence_bp/100}%</p>) : <p>证契未足，不强造应期。</p>}</div></section>
+          <section className="report-chapter"><span>行</span><div><h3>行动提示</h3><p>{run.report.action_guidance}</p></div></section>
+        </div></div>
+        <footer className="report-footer"><p className="report-provenance">本页使用三际枢确定性模板成文。成文服务未启用时，结构结果与完整报告仍然可读。</p><Link className="product-button" href={`/chronicle/${run.archive_id}`}>收入三际录</Link></footer>
         <TechnicalDetails><dl className="technical-grid"><div><dt>Core Output Hash</dt><dd><code>{run.core_output_hash}</code></dd></div><div><dt>Report Hash</dt><dd><code>{run.deterministic_report_hash}</code></dd></div><div><dt>Trace Hash</dt><dd><code>{run.trace_hash}</code></dd></div><div><dt>状态原值</dt><dd>{productStatus(run.status)}</dd></div></dl></TechnicalDetails>
       </article>
       <section className="chronicle-detail" aria-labelledby="trend-title"><header><span>{productStatus(run.status)}</span><h2 id="trend-title">命势长图</h2><p>历史、当下、未来和资料留白分开呈现；空白时段不会被补成连续曲线。</p></header>

diff --git a/apps/web/components/ProductHome.tsx b/apps/web/components/ProductHome.tsx
@@ -28,14 +28,14 @@ export default function ProductHome() {
 
   return <ProductShell title={session.subject ? `欢迎回来，${session.subject.name}` : "从如实立卷开始"} eyebrow="首页 · 观三际">
     <section className="product-hero">
-      <div><p className="product-kicker">过去 · 当下 · 未来</p><h2>先把事实安放好，再察其间的关系。</h2>
-      <p>三际观保存原始资料、机械结构和版本边界；未知不会被补造，研究不会被说成定论。</p></div>
+      <div className="home-manifesto"><p className="product-kicker">往际 · 当下 · 未来</p><h2>先把事实安放好，<br/>再察其间的关系。</h2>
+      <p>三际观保存原始资料、机械结构和版本边界。未知不会被补造，研究不会被说成定论。</p><div className="home-axis" aria-label="三际观察轴"><span><b>往</b>已有记录</span><i/><span><b>今</b>当前观照</span><i/><span><b>来</b>规则推演</span></div></div>
       {!ready ? <PageState kind="loading" title="正在读取个人空间"><p>只读取当前安全会话所需的最小摘要。</p></PageState> :
        !session.subject ? <PageState kind="empty" title="还没有三际录"><p>先为自己立卷。出生时刻不知道也可以如实选择“未知”，系统不会补造。</p></PageState> :
        <PageState kind="success" title="主体资料已建立"><p>{session.subject.name} · 出生时刻精度：{session.subject.timePrecision === "unknown" ? "未知" : "已记录"}</p></PageState>}
     </section>
 
-    <section aria-labelledby="home-actions">
+    <section className="home-actions-section" aria-labelledby="home-actions">
       <div className="product-section-head"><div><p className="eyebrow">现在可以做</p><h2 id="home-actions">选择一个清楚的下一步</h2></div></div>
       <div className="action-grid">
         <Link className="action-card action-card--primary" href="/onboarding"><span>01</span><h3>{session.subject ? "完善三际录" : "建立三际录"}</h3><p>约 3 分钟 · 未知项可以如实留空</p><b>{session.subject ? "继续立卷" : "开始立卷"}</b></Link>
@@ -52,7 +52,7 @@ export default function ProductHome() {
     </section>
     {session.pendingTask && <section className="continue-task"><div><small>未完成任务</small><h2>{session.pendingTask.label}</h2></div><Link className="product-button" href={session.pendingTask.href}>继续上次任务</Link></section>}
 
-    <section className="public-overview" aria-labelledby="public-overview-title">
+    {!session.subject && <section className="public-overview" aria-labelledby="public-overview-title">
       <header className="public-overview__hero">
         <p className="eyebrow">三际观 · 1.0.0-rc.1</p>
         <p>三际观——宿世因缘与命势推演系统</p>
@@ -108,6 +108,6 @@ export default function ProductHome() {
       <section aria-labelledby="glossary-title"><h2 id="glossary-title">术语与常见问题</h2>
         <dl className="public-boundary-list"><div><dt>三际枢</dt><dd>独立运行的确定性算法核心。</dd></div><div><dt>方法方案</dt><dd>明确边界与流派差异的版本化配置，技术名称为 Profile。</dd></div><div><dt>规则版本</dt><dd>可校验、可审查的规则集合，技术名称为 Ruleset。</dd></div><div><dt>复演</dt><dd>按原版本重放，不使用当前可变规则。</dd></div><div><dt>研究态是否等于传统共识？</dt><dd>不等于；研究态只表示可在受限研究环境运行。</dd></div><div><dt>没有 DeepSeek 能否使用？</dt><dd>可以；完整结构和确定性报告不依赖 AI 密钥。</dd></div></dl>
       </section>
-    </section>
+    </section>}
   </ProductShell>;
 }

diff --git a/apps/web/components/ProductShell.tsx b/apps/web/components/ProductShell.tsx
@@ -13,20 +13,12 @@ const NAV = [
   { label: "我的", subtitle: "主体与设置", href: "/me" },
 ] as const;
 
-const DESKTOP_FEATURES = [
-  ["六象合参", "/consult/liuxiang"], ["三际断章", "/consult/life-trend"],
-  ["宿世星图", "/consult/sushe"], ["中阴之门", "/consult/zhongyin"],
-  ["命势长图", "/consult/life-trend"], ["缘契图", "/consult/yuanqi"],
-  ["观照录", "/records"], ["历次命卷", "/chronicle"],
-  ["设置与数据管理", "/me/data"],
-] as const;
-
 const MOBILE_NAV = [
-  { label: "首页", href: "/" },
-  { label: "三际录", href: "/chronicle" },
-  { label: "合参", href: "/consult" },
-  { label: "断章", href: "/consult/life-trend" },
-  { label: "更多", href: "/me" },
+  { label: "首页", glyph: "观", href: "/" },
+  { label: "三际录", glyph: "卷", href: "/chronicle" },
+  { label: "合参", glyph: "象", href: "/consult" },
+  { label: "断章", glyph: "章", href: "/consult/life-trend" },
+  { label: "更多", glyph: "···", href: "/me" },
 ] as const;
 
 const STATUS_LABELS: Record<string, string> = {
@@ -58,7 +50,8 @@ export default function ProductShell({
     <div className="product-shell">
       <a className="skip-link" href="#main-content">跳到主要内容</a>
       <aside className="product-sidebar">
-        <Link href="/" className="product-brand"><strong>三际观</strong><span>大屏观三际，小屏录一念</span></Link>
+        <Link href="/" className="product-brand"><i aria-hidden="true">际</i><span><strong>三际观</strong><small>SANJI OBSERVATORY</small></span></Link>
+        <p className="product-space-label"><span aria-hidden="true"/>私人研究空间</p>
         <nav aria-label="普通用户主导航">
           {NAV.map((item) => {
             const active = item.href === "/" ? pathname === "/" : pathname.startsWith(item.href);
@@ -67,10 +60,8 @@ export default function ProductShell({
             </Link>;
           })}
         </nav>
-        <nav className="product-feature-nav" aria-label="桌面专题导航">
-          {DESKTOP_FEATURES.map(([label,href])=><Link key={label} href={href}>{label}</Link>)}
-        </nav>
-        <p className="product-boundary">机械排盘与研究状态会如实标注。未审校规则不会生成术数结论。</p>
+        <Link className="sidebar-consult-entry" href="/consult"><span>合参工作区</span><b>进入诸象 →</b><small>八字 · 紫微 · 易经 · 六象 · 专题</small></Link>
+        <p className="product-boundary"><b>研究边界</b><span>机械排盘与推演状态如实标注。未审校规则不冒充传统定论。</span></p>
       </aside>
       <div className="product-main">
         <header className="product-topbar">
@@ -80,7 +71,7 @@ export default function ProductShell({
         <main id="main-content" className="product-content">{children}</main>
       </div>
       <nav className="product-mobile-nav" aria-label="普通用户手机主导航">
-        {MOBILE_NAV.map((item) => <Link key={item.href} href={item.href} aria-current={(item.href === "/" ? pathname === "/" : pathname.startsWith(item.href)) ? "page" : undefined}>{item.label}</Link>)}
+        {MOBILE_NAV.map((item) => <Link key={item.href} href={item.href} aria-current={(item.href === "/" ? pathname === "/" : pathname.startsWith(item.href)) ? "page" : undefined}><span aria-hidden="true">{item.glyph}</span><b>{item.label}</b></Link>)}
       </nav>
     </div>
   );
